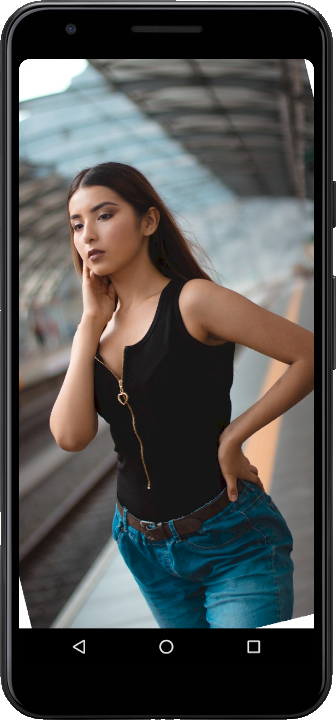
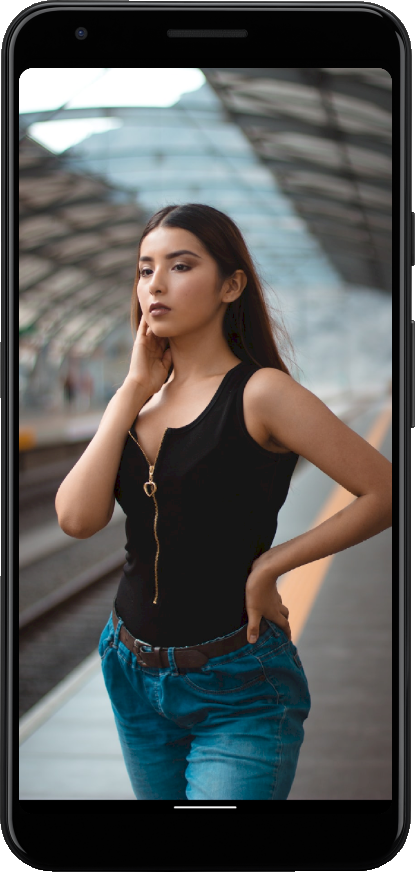
update screens

diff --git a/README.md b/README.md
@@ -15,8 +15,12 @@ Web https://maxeema.github.io/gallery
 
 ![Screenshot](screens/Gallery2.png)
 
-![Screenshot](screens/Gallery6.png) ![Screenshot1](screens/Gallery5.png)
- 
+![Screenshot](screens/Gallery7.png) ![Screenshot1](screens/Gallery5.png) ![Screenshot1](screens/Gallery4.png)
+
 ![Screenshot](screens/Gallery1.png)
+
+![Screenshot](screens/Gallery6.png) ![Screenshot](screens/Gallery3.png)
+
+ 
 
 © iMax (Maxeem) Shemetov, 2020
